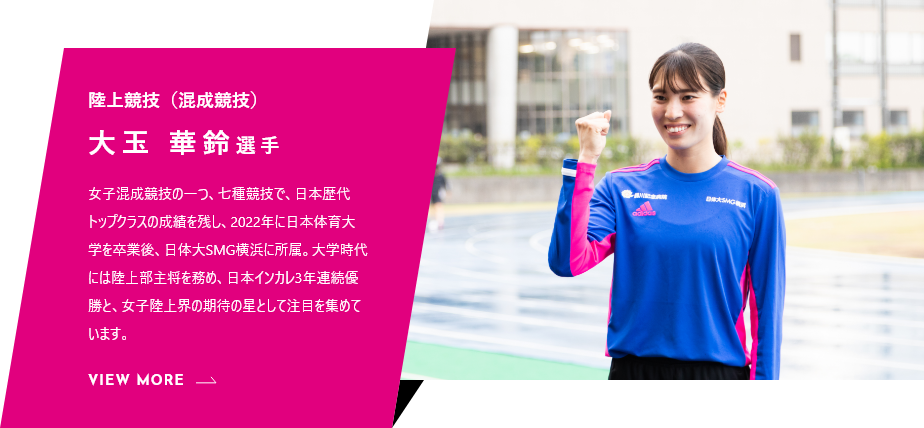
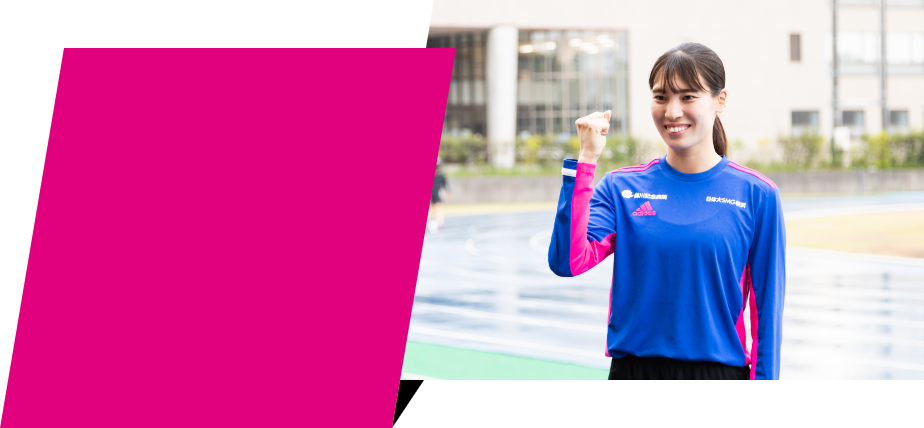
changes on top page

diff --git a/assets/css/top.css b/assets/css/top.css
@@ -8,7 +8,7 @@
 
 
 /* .about-background{
-    background-image: url('./assets/images/Path 8062@2x.png');
+    background-image: url('./images/Path 8062@2x.png');
     background-position: center;
 } */
 
@@ -29,6 +29,74 @@
     transform: skew(-20deg);
     width: 50px;
 }
+
+.bg-img-1{
+    background-image: url('../images/slide1@2x.png') ;
+}
+
+.bg-img-2{
+    background-image: url('../images/slide2@2x.png') ;
+    animation: zoomin 10s ease-in;
+    transition: all .5s ease-in;
+}
+
+.bg-img-3{
+    background-image: url('../images/slide3@2x.png') ;
+    animation: zoomout 10s ease-out;
+    transition: all .5s ease-out;
+    overflow: hidden;
+}
+
+.bg-img-4{
+    background-image: url('../images/slide4@2x.png') ;
+}
+
+.overlay_image_slide{
+    height: 100vh;
+    background-repeat: no-repeat;
+    background-position: center;
+    background-size: cover;
+}
+
+.zoomInHeader{
+    -webkit-animation: zoomin 10s ease-in infinite;
+    animation: zoomin 10s ease-in infinite;
+    transition: all .5s ease-in-out;
+    overflow: hidden;
+}
+
+.zoomOutHeader{
+    -webkit-animation: zoomout 10s ease-in infinite;
+    animation: zoomout 10s ease-in infinite;
+    transition: all .5s ease-in-out;
+    overflow: hidden;
+}
+
+
+/* Zoom in Keyframes */
+@-webkit-keyframes zoomin {
+    0% {transform: scale(1);}
+    50% {transform: scale(1.5);}
+    /* 100% {transform: scale(1);} */
+  }
+  @keyframes zoomin {
+    0% {transform: scale(1);}
+    50% {transform: scale(1.5);}
+    /* 100% {transform: scale(1);} */
+  } /*End of Zoom in Keyframes */
+  
+
+  /* Zoom out Keyframes */
+@-webkit-keyframes zoomout {
+    0% {transform: scale(1);}
+    50% {transform: scale(0.67);}
+    100% {transform: scale(1);}
+  }
+  @keyframes zoomout {
+      0% {transform: scale(1);}
+    50% {transform: scale(0.67);}
+    100% {transform: scale(1);}
+  }/*End of Zoom out Keyframes */
 
 
 @media only screen and (max-width: 750px){

diff --git a/assets/css/style.css b/assets/css/style.css
@@ -125,6 +125,10 @@ body{
     right: -5px;
 }
 
+.team.right-arrow:hover{
+    border: #D19F00 1px solid;
+}
+
 .team-sp-right-arrow {
     height: 1px;
     border-bottom: 1px solid;

diff --git a/templates/homepage.php b/templates/homepage.php
@@ -4,27 +4,30 @@
 <div id="top" class=''>
     <div id="top-1" class='flex flex-col smin-750:flex-row top-vh'>
         <div id="banner-image" class='w-[100%] smin-750:w-[80%] max-[750px]:overflow-visible overflow-hidden max-[750px]:h-screen'>
-            <div class="overlay_image_slide fade relative w-full h-full max-[750px]:overflow-visible">
-                <img src=" <?= site_url('/wp-content/themes/smg') ?>/assets/images/slide1@2x.png" class="overlay_image_wrapper zoom w-full h-full" >
+            <div class="overlay_image_slide fade relative w-full max-[750px]:overflow-visible bg-img-1">
+                <!-- <img src=" <?= site_url('/wp-content/themes/smg') ?>/assets/images/slide1@2x.png" class="overlay_image_wrapper zoom w-full max-[750px]:hidden block" >
+                <img src=" <?= site_url('/wp-content/themes/smg') ?>/assets/images/Group 9512@2x.png" class="overlay_image_wrapper zoom w-full max-[750px]:block hidden" > -->
                 <div class='w-[33.33%] absolute bottom-[12%] left-[10%]'>
                     <img src=' <?= site_url('/wp-content/themes/smg') ?>/assets/images/Path 11993.png'/>
                 </div>
             </div>
-            <div class="overlay_image_slide fade w-full h-full">
-
-                <img src=" <?= site_url('/wp-content/themes/smg') ?>/assets/images/slide2@2x.png" class="overlay_image_wrapper zoom w-full h-full">
+            <div class="overlay_image_slide fade w-full bg-img-2">
+                <!-- <img src=" <?= site_url('/wp-content/themes/smg') ?>/assets/images/slide2@2x.png" class="overlay_image_wrapper zoom w-full max-[750px]:hidden block">
+                <img src=" <?= site_url('/wp-content/themes/smg') ?>/assets/images/LINE_ALBUM_211021_839_02.psd@2x.png" class="overlay_image_wrapper zoom w-full max-[750px]:block hidden" > -->
                     <div class='w-[33.33%] absolute bottom-[3%] right-[21%]'>
                         <img src=' <?= site_url('/wp-content/themes/smg') ?>/assets/images/Path 11992.png'/>
                     </div>
             </div>
-            <div class="overlay_image_slide fade w-full h-full">
-                <img src=" <?= site_url('/wp-content/themes/smg') ?>/assets/images/slide3@2x.png" class="overlay_image_wrapper zoom w-full h-full" >
+            <div class="overlay_image_slide fade w-full bg-img-3">
+                <!-- <img src=" <?= site_url('/wp-content/themes/smg') ?>/assets/images/slide3@2x.png" class="overlay_image_wrapper zoom w-full max-[750px]:hidden block" >
+                <img src=" <?= site_url('/wp-content/themes/smg') ?>/assets/images/Mask Group 12@2x.png" class="overlay_image_wrapper zoom w-full max-[750px]:block hidden" > -->
                     <div class='w-[33.33%] absolute bottom-[20%] left-[24%]'>
                         <img src=' <?= site_url('/wp-content/themes/smg') ?>/assets/images/Path 11991.png'/>
                     </div>
             </div>
-            <div class="overlay_image_slide fade w-full h-full">
-                <img src=" <?= site_url('/wp-content/themes/smg') ?>/assets/images/slide4@2x.png" class="overlay_image_wrapper zoom w-full h-full">
+            <div class="overlay_image_slide fade w-full  bg-img-4">
+                <!-- <img src=" <?= site_url('/wp-content/themes/smg') ?>/assets/images/slide4@2x.png" class="overlay_image_wrapper zoom w-full max-[750px]:hidden block">
+                <img src=" <?= site_url('/wp-content/themes/smg') ?>/assets/images/Slide4_sp12@2x.png" class="overlay_image_wrapper zoom w-full max-[750px]:block hidden" > -->
                     <div class='w-[33.33%] absolute bottom-[12%] left-[10%]'>
                         <img src=' <?= site_url('/wp-content/themes/smg') ?>/assets/images/Path 11990.png'/>
                     </div>
@@ -1510,14 +1513,25 @@ $(document).ready(function() {
         <div class='text-center josefin-sans text-[48px] font-bold'>TEAM</div>
         <div class='text-center noto-sans text-[16px] leading-[20px] font-bold tracking-[4px]'>選手・チーム紹介</div>
 
-    <div class='mt-[50px] flex justify-between'>
-        <div class='w-[50%] max-[1440px]:w-[100%] relative'>
+    <div class='mt-[50px] flex justify-between max-[1280px]:flex-col'>
+        <div class='w-[50%] max-[1440px]:w-[100%] relative max-[1280px]:w-[70%] max-[992px]:w-[75%] max-[911px]:w-[80%] max-[854px]:w-[85%]
+        max-[804px]:w-[90%]
+        max-[759px]:w-[94%]'>
             <img src=' <?= site_url('/wp-content/themes/smg') ?>/assets/images/Group 9513@2x.png'/>
             <div class='absolute w-[42.5%] h-[78.5%] top-[10%] max-[1853px]:top-[7%] right-[-1px] pr-[105px] max-[1900px]:pr-[95px] max-[1853px]:pr-[83px] max-[1796px]:pr-[72px] max-[1744px]:pr-[50px]
-            max-[1695px]:pr-[83px] max-[1600px]:pr-[85px] max-[1531px]:pr-[90px] max-[1487px]:pr-[70px] max-[1440px]:pr-[42px]'>
-                <div class='noto-sans text-[18px] text-white font-bold tracking-[-3px] mt-[40px] ml-[15px] max-[1695px]:text-[14px]'>なでしこリーグ</div>
-                            <div class='noto-sans text-[28px] text-white font-bold leading-[46px] ml-[15px] tracking-[10px] max-[1695px]:leading-[30px] max-[1695px]:text-[25px] max-[1600px]:text-[20px] max-[1531px]:text-[18px] max-[1531px]:leading-[25px]'>日体大SMG横浜</div>
-                            <div class='noto-sans text-[14px] text-white font-medium mt-[25px] leading-[28px] ml-[15px] max-[1695px]:leading-[20px] max-[1531px]:text-[12px] max-[1487px]:mt-[10px]'>
+            max-[1695px]:pr-[83px] max-[1600px]:pr-[85px] max-[1531px]:pr-[90px] max-[1487px]:pr-[70px] max-[1440px]:pr-[42px]
+            max-[1280px]:pr-[80px]
+            max-[1175px]:pr-[60px]
+            max-[1108px]:pr-[50px]'>
+                <div class='noto-sans text-[18px] text-white font-bold tracking-[-3px] mt-[40px] ml-[15px] max-[1695px]:text-[14px] max-[1280px]:text-[18px] max-[1280px]:mt-[40px]
+                max-[1074px]:text-[16px]'>なでしこリーグ</div>
+                            <div class='noto-sans text-[28px] text-white font-bold leading-[46px] ml-[15px] tracking-[10px] max-[1695px]:leading-[30px] max-[1695px]:text-[25px] max-[1600px]:text-[20px] max-[1531px]:text-[18px] max-[1531px]:leading-[25px]
+                            max-[1280px]:text-[24px] max-[1280px]:leading-[46px]
+                            max-[1074px]:text-[20px] max-[1074px]:leading-[40px]
+                            max-[1024px]:leading-[20px]'>日体大SMG横浜</div>
+                            <div class='noto-sans text-[14px] text-white font-medium mt-[25px] leading-[28px] ml-[15px] max-[1695px]:leading-[20px] max-[1531px]:text-[12px] max-[1487px]:mt-[10px]
+                            max-[1280px]:text-[14px] max-[1280px]-leading-[28px] max-[1280px]:mt-[25px]
+                            max-[1074px]:text-[12px] max-[1074px]:leading-[20px] max-[1074px]:mt-[20px]'>
                             日本体育大学 横浜･健志台キャンパスを活動
                             拠点とし、なでしこリーグ1部に所属する女
                             子サッカークラブ。「強く・逞しく・美し
@@ -1526,7 +1540,7 @@ $(document).ready(function() {
                             ています。
                             </div>
                             <div class='mt-[30px] ml-[15px]'>
-                                <button class='relative flex justify-center text-white'>
+                                <button class='relative flex justify-center text-white view-hover hover:text-[#D19F00]'>
                                 <a class='self-center josefin-sans font-bold text-[14px]'>VIEW MORE</a>
                                 <div class='team-right-arrow'>
 
@@ -1535,82 +1549,40 @@ $(document).ready(function() {
                 </div>
             </div>
         </div>
-        <div class='w-[50%] mt-[60px] max-[1440px]:w-[100%]'>
+        <div class='relative w-[50%] mt-[60px] max-[1440px]:w-[100%] max-[1280px]:self-end max-[1280px]:w-[70%] max-[992px]:w-[75%] max-[911px]:w-[80%] max-[854px]:w-[85%]
+        max-[804px]:w-[90%]
+        max-[759px]:w-[94%]'>
+            <div class='absolute w-[42.5%] h-[89%] top-[11%] right-[50.5%] pr-[90px]
+            max-[1829px]:pr-[90px]
+            max-[1745px]:pr-[70px]
+            max-[1331px]:pr-[50px]'>
+                <div class='noto-sans text-[18px] text-white font-bold tracking-[-3px] mt-[40px] ml-[15px] max-[1695px]:text-[14px] max-[1280px]:text-[18px] max-[1280px]:mt-[40px]
+                max-[1074px]:text-[16px]
+                max-[1745px]:mt-[30px]'>陸上競技（混成競技）</div>
+                            <div class='noto-sans text-[28px] text-white font-bold leading-[46px] ml-[15px] tracking-[10px] max-[1695px]:leading-[30px] max-[1695px]:text-[25px] max-[1600px]:text-[20px] max-[1531px]:text-[18px] max-[1531px]:leading-[25px]
+                            max-[1280px]:text-[24px] max-[1280px]:leading-[46px]
+                            max-[1074px]:text-[20px] max-[1074px]:leading-[40px]
+                            max-[1024px]:leading-[20px]'>大玉 華鈴選手</div>
+                            <div class='noto-sans text-[14px] text-white font-medium mt-[25px] leading-[28px] ml-[15px] max-[1695px]:leading-[20px] max-[1531px]:text-[12px] max-[1487px]:mt-[10px]
+                            max-[1280px]:text-[14px] max-[1280px]-leading-[28px] max-[1280px]:mt-[25px]
+                            max-[1074px]:text-[12px] max-[1074px]:leading-[20px] max-[1074px]:mt-[20px]'>
+       女子混成競技の一つ、七種競技で、日本歴代トップクラスの成績を残し、2022年に日本体育大学を卒業後、日体大SMG横浜に所属。大学時代には陸上部主将を務め、日本インカレ3年連続優勝と、女子陸上界の期待の星として注目を集めています。
+                            </div>
+                            <div class='mt-[30px] ml-[15px]
+                            max-[1800px]:mt-[20px]
+                            max-[1331px]:mt-[15px]'>
+                                <button class='relative flex justify-center text-white hover:text-[#D19F00]'>
+                                <a class='self-center josefin-sans font-bold text-[14px]'>VIEW MORE</a>
+                                <div class='team-right-arrow'>
+
+                                </div>
+                                </button>
+                </div>
+            </div>
             <img src=' <?= site_url('/wp-content/themes/smg') ?>/assets/images/Group 9514@2x.png'/>
         </div>
 
     </div>
-
-<!--     
-        <div class='mt-[50px] flex justify-between'>
-            <div class='w-[50%] mr-[18px]'>
-                <div class='relative'>
-                        <img src=' <?= site_url('/wp-content/themes/smg') ?>/assets/images/Mask Group 5.png' class=''/>
-                    <div class='absolute top-[46px] right-[6%]'>
-                    <div class="parallelogram-right-news min-[751px]:w-[385px] min-[751px]:h-[380px] 
-                    static max-[750px]:mx-auto w-[80%]
-                    max-[750px]:skew-y-0 max-[750px]:mt-[-54px] h-full flex
-                    ">
-                    </div>
-                <div class='absolute bottom-[-1px] w-[24px] h-[48px] left-[-49px]'>
-                    <img src=' <?= site_url('/wp-content/themes/smg') ?>/assets/images/Path 58@2x.png'/>
-                </div>
-                <div class='absolute w-[81%] h-[100%] top-[0] ml-[37px]'>
-                        <div class='noto-sans text-[18px] text-white font-bold tracking-[-3px] mt-[40px] ml-[15px]'>なでしこリーグ</div>
-                        <div class='noto-sans text-[28px] text-white font-bold leading-[46px] ml-[15px] tracking-[10px]'>日体大SMG横浜</div>
-                        <div class='noto-sans text-[14px] text-white font-medium mt-[25px] leading-[28px] ml-[15px]'>
-                        日本体育大学 横浜･健志台キャンパスを活動
-                        拠点とし、なでしこリーグ1部に所属する女
-                        子サッカークラブ。「強く・逞しく・美し
-                        く」をスローガンとし、地域の皆さまに必要
-                        とされるクラブを目指して、活動の幅を広げ
-                        ています。
-                        </div>
-                        <div class='mt-[30px] ml-[15px]'>
-                            <button class='relative flex justify-center text-white'>
-                            <a class='self-center josefin-sans font-bold text-[14px]'>VIEW MORE</a>
-                            <div class='team-right-arrow'>
-
-                            </div>
-                            </button>
-                        </div>
-                </div>
-                        
-
-                    </div>
-                </div>
-            </div>
-            <div class='w-[50%] ml-[18px] mt-[60px]'>
-            <div class='relative flex w-full justify-end'>
-                        <img src=' <?= site_url('/wp-content/themes/smg') ?>/assets/images/Mask Group 4.png' class=''/>    
-                    <div class='absolute top-[54px] right-[54%]'>
-                        <div class="parallelogram-left-news min-[751px]:w-[385px] min-[751px]:h-[380px] 
-                        static max-[750px]:mx-auto w-[80%]
-                        max-[750px]:skew-y-0 max-[750px]:mt-[-54px] h-full flex
-                        ">
-                        </div>
-                        <div class='absolute bottom-[8px] w-[37px] h-[48px] right-[-3px]'>
-                            <img src=' <?= site_url('/wp-content/themes/smg') ?>/assets/images/Path 57@2x.png'/>
-                        </div>
-                        <div class='absolute w-[81%] h-[100%] top-[0] ml-[37px]'>
-                            <div class='noto-sans text-[18px] text-white font-bold tracking-[-3px] mt-[40px] ml-[15px]'>陸上競技（混成競技）</div>
-                            <div class='noto-sans text-[28px] text-white font-bold leading-[46px] ml-[15px] tracking-[10px]'>大玉 華鈴選手</div>
-                            <div class='noto-sans text-[14px] text-white font-medium mt-[25px] leading-[28px] ml-[15px]'>
-                            女子混成競技の一つ、七種競技で、日本歴代トップクラスの成績を残し、2022年に日本体育大学を卒業後、日体大SMG横浜に所属。大学時代には陸上部主将を務め、日本インカレ3年連続優勝と、女子陸上界の期待の星として注目を集めています。
-                            </div>
-                            <div class='mt-[30px] ml-[15px]'>
-                                <button class='relative flex justify-center text-white'>
-                                <a class='self-center josefin-sans font-bold text-[14px]'>VIEW MORE</a>
-                                <div class='team-right-arrow'>
-
-                                </div>
-                                </button>
-                            </div>
-                        </div>
-                    </div>
-                </div>
-            </div>
-        </div> -->
 
         <div class='w-[62.5%] max-[1440px]:w-[80%] m-auto mt-[300px] flex flex-wrap relative'>
             <div class='absolute top-[74.6%] left-[28.5%] bg-[#004EA1] w-[43.33%] max-[1024px]:w-[60%] max-[1024px]:left-[20.5%]'>
@@ -1619,7 +1591,7 @@ $(document).ready(function() {
                     アマチュアトップリーグで活躍する選手たちを間近で感じながら、未来への飛躍に向けて活動するチーム。サッカー経験や身体能力等による篩い分けを行わず、初心者でも参加できることを大切にしています。
                 </div>
                 <div class='mt-[30px] mx-[35px] mb-[40px]'>
-                    <button class='relative flex justify-center text-white'>
+                    <button class='relative flex justify-center text-white hover:text-[#D19F00]'>
                         <a class='self-center josefin-sans font-bold text-[14px]'>VIEW MORE</a>
                             <div class='team-right-arrow'>
                             </div>
@@ -1796,7 +1768,7 @@ $(document).ready(function() {
                         総合型地域スポーツクラブを⽬指して
                     </div>
                     <div class='mt-[20px] mx-[20px] pb-[15px]'>
-                        <button class='relative flex justify-center text-white'>
+                        <button class='relative flex justify-center text-white hover:text-[#000]'>
                             <a class='self-center josefin-sans font-bold text-[14px]'>VIEW MORE</a>
                                 <div class='team-right-arrow'>
                                 </div>
@@ -1819,7 +1791,7 @@ $(document).ready(function() {
                         地域活動レポート
                     </div>
                     <div class='mt-[30px] mx-[20px] pb-[15px]'>
-                        <button class='relative flex justify-center text-white'>
+                        <button class='relative flex justify-center text-white hover:text-[#000]'>
                             <a class='self-center josefin-sans font-bold text-[14px]'>VIEW MORE</a>
                                 <div class='team-right-arrow'>
                                 </div>
@@ -1842,7 +1814,7 @@ $(document).ready(function() {
                         地域の健康をつくる
                     </div>
                     <div class='mt-[30px] mx-[20px] pb-[15px]'>
-                        <button class='relative flex justify-center text-white'>
+                        <button class='relative flex justify-center text-white hover:text-[#000]'>
                             <a class='self-center josefin-sans font-bold text-[14px]'>VIEW MORE</a>
                                 <div class='team-right-arrow'>
                                 </div>
@@ -1919,9 +1891,10 @@ function showSlides() {
   slides[slideIndex-1].style.display = "block";  
   dots[slideIndex-1].className += " slider-active";
   pcDot[slideIndex-1].className += " slider-active";
-  setTimeout(showSlides, 10000); // Change image every 2 seconds
+  setTimeout(showSlides, 3000); // Change image every 2 seconds
 }
 </script>
 
 <?php get_footer(); ?>
 <script src="https://cdn.jsdelivr.net/npm/bootstrap@5.0.2/dist/js/bootstrap.bundle.min.js" integrity="sha384-MrcW6ZMFYlzcLA8Nl+NtUVF0sA7MsXsP1UyJoMp4YLEuNSfAP+JcXn/tWtIaxVXM" crossorigin="anonymous"></script>
+
